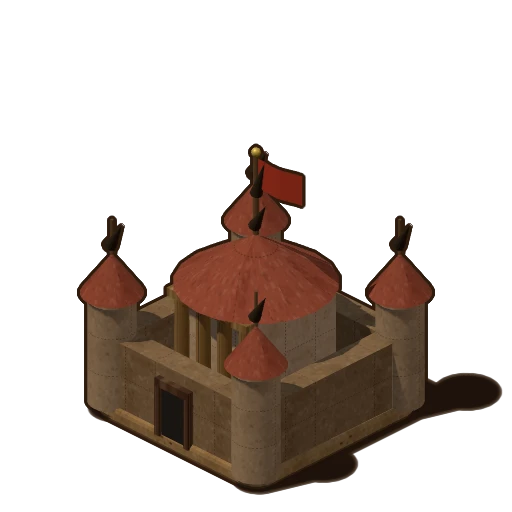
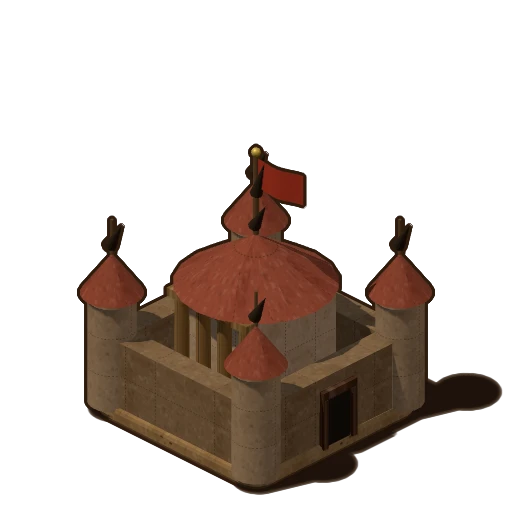
Ville au sud-est : route dégagée sur toute sa courbe, retours de la vérification
Relecture indépendante (code, captures, dépôt) du passage de la porte au sud-est :
- le décor extérieur évite toute la courbe de la route (distance à la Bézier) au lieu d un couloir
  droit ; un arbre ou un palmier se trouvait sur la route dans toutes les captures ;
- le « + » d un champ vide est dessiné avec sa parcelle, dans l ordre de profondeur : il ne passe
  plus par-dessus la tourelle de la porte ;
- l ombre du sol vue par l ouverture de la porte prend la couleur du biome (plus de liseré vert
  dans le désert et la neige) ;
- carte du monde : la ville fortifiée a sa porte sur la face sud-est (7 sprites 3D re-rendus) ;
- fiche de la porte peinte : référence au tronçon seg_z de la face sud-est ;
- captures de boutique de la ville et des champs régénérées.

Claude-Session: https://claude.ai/code/session_016sqwKg526Dtdz16gGNqRWF

Changed region(s): [[0.625, 0.75, 0.7812, 0.9062], [0.2812, 0.7188, 0.375, 0.875], [0.5625, 0.3438, 0.625, 0.4062]]

diff --git a/frontend/js/app/04b-iso-scene.js b/frontend/js/app/04b-iso-scene.js
@@ -209,7 +209,9 @@ function drawIsoGround(ctx, cx, cy, W, biome, night) {
   const hw = R_WALL * W * ISO_SP, hh = hw / 2;
   ctx.save();
   ctx.shadowColor = night ? 'rgba(0,0,0,0.6)' : 'rgba(20,12,4,0.35)'; ctx.shadowBlur = W * 0.4; ctx.shadowOffsetY = W * 0.08;
-  ctx.fillStyle = night ? '#1e2a1a' : '#5f8f36';
+  // ombre portée du sol de l'enceinte, teintée par le biome (visible seulement par l'ouverture de la porte)
+  const groundShadow = { forest: ['#5f8f36', '#1e2a1a'], desert: ['#b39a62', '#2a2418'], snow: ['#c3ccd4', '#262c34'] }[biome] || ['#5f8f36', '#1e2a1a'];
+  ctx.fillStyle = night ? groundShadow[1] : groundShadow[0];
   isoDiamondPath(ctx, cx, cy + W * 0.06, hw, hh); ctx.fill();
   ctx.restore();
   isoDiamondPath(ctx, cx, cy, hw, hh);
@@ -389,10 +391,22 @@ function isoMapFeatureAt(gx, gy) {
   if (!dx && !dy) return null;
   return Terrain.getTerrainType(currentCity.x + dx, currentCity.y + dy).feature;
 }
+// Distance (px écran) d'un point à la route de terre : la courbe de Bézier de drawIsoRoad, échantillonnée
+function isoRoadSampler(cx, cy, W) {
+  const { p0, p1, p2, p3 } = isoRoadPoints(cx, cy, W);
+  const s0 = { x: p0.x, y: p0.y - W * 0.3 };
+  const pts = [];
+  for (let i = 0; i <= 40; i++) {
+    const t = i / 40, u = 1 - t;
+    pts.push({ x: u * u * u * s0.x + 3 * u * u * t * p1.x + 3 * u * t * t * p2.x + t * t * t * p3.x, y: u * u * u * s0.y + 3 * u * u * t * p1.y + 3 * u * t * t * p2.y + t * t * t * p3.y });
+  }
+  return (x, y) => { let d = Infinity; for (let i = 1; i < pts.length; i++) { const a = pts[i - 1], b = pts[i]; const vx = b.x - a.x, vy = b.y - a.y, l2 = vx * vx + vy * vy || 1; const k = Math.max(0, Math.min(1, ((x - a.x) * vx + (y - a.y) * vy) / l2)); d = Math.min(d, Math.hypot(x - a.x - k * vx, y - a.y - k * vy)); } return d; };
+}
 function isoLandscape(view, W, cx, cy) {
   const props = biomeScene(cityBiome()).props;
   const out = [], water = [];
   const rMin = Math.ceil(R_WALL) + 1, rMax = rMin + 2;
+  const roadDist = isoRoadSampler(cx, cy, W);   // rien n'est posé sur la route, même là où elle s'écarte de l'axe de la porte
   for (let gx = -rMax; gx <= rMax; gx++) for (let gy = -rMax; gy <= rMax; gy++) {
     const r = Math.max(Math.abs(gx), Math.abs(gy));
     if (r < rMin || r > rMax) continue;
@@ -404,11 +418,14 @@ function isoLandscape(view, W, cx, cy) {
     const feature = isoMapFeatureAt(gx, gy);
     const jitter = (k) => (isoSeeded(seed + k) - 0.5) * 0.7;
     const p = isoPos(gx + jitter(1), gy + jitter(2), W, cx, cy);
+    const dRoad = roadDist(p.x, p.y);
     if (feature === 'water' || feature === 'frozen' || feature === 'oasis') {
+      if (dRoad < W * (0.9 + isoSeeded(seed + 5) * 0.5) + W * 0.25) continue;   // un plan d'eau ne recouvre pas la route
       water.push({ x: p.x, y: p.y, rx: W * (0.9 + isoSeeded(seed + 5) * 0.5), ry: W * (0.42 + isoSeeded(seed + 6) * 0.2), kind: feature, depth: gx + gy });
       if (feature === 'oasis' && roll < 0.5) out.push({ x: p.x + W * 0.35, y: p.y - W * 0.05, kind: 'palm', h: W * 0.85, depth: gx + gy + 0.1 });
       continue;
     }
+    if (dRoad < W * 0.55) continue;   // ni arbre ni rocher sur la route
     let kind = null, h = 0;
     if (feature === 'mountain' || feature === 'icemountain' || feature === 'rocks') {
       if (roll > 0.8) continue;

diff --git a/frontend/js/app/03-fields-render.js b/frontend/js/app/03-fields-render.js
@@ -38,6 +38,10 @@ function drawFieldSlot(slot, building, isHovered, isBuilding) {
     cityCtx.lineWidth = isHovered ? 3 : 2;
     cityCtx.setLineDash([5, 5]); cityCtx.stroke(); cityCtx.setLineDash([]);
     cityCtx.shadowBlur = 0;
+    // « + » dessiné avec la parcelle (ordre de profondeur) : une tour ou un mur devant le cache, comme pour les bâtiments
+    cityCtx.fillStyle = isHovered ? '#ffd700' : 'rgba(255,255,255,0.6)';
+    cityCtx.font = `bold ${size * 0.4}px Arial`; cityCtx.textAlign = 'center'; cityCtx.textBaseline = 'middle';
+    cityCtx.fillText('+', x, y);
   }
   // Couche d'overlay (dessinée après tous les sprites) : production, « + », badge de niveau, chantier
   const showBadges = typeof isoShowBadges !== 'function' || isoShowBadges(isHovered);
@@ -51,11 +55,6 @@ function drawFieldSlot(slot, building, isHovered, isBuilding) {
         cityCtx.drawImage(icon, x - s / 2, prodY - s / 2, s, s);
         cityCtx.globalAlpha = 1;
       }
-    }
-    if (level === 0) {
-      cityCtx.fillStyle = isHovered ? '#ffd700' : 'rgba(255,255,255,0.6)';
-      cityCtx.font = `bold ${size * 0.4}px Arial`; cityCtx.textAlign = 'center'; cityCtx.textBaseline = 'middle';
-      cityCtx.fillText('+', x, y);
     }
     if (level > 0 && showBadges) {   // badge de niveau (même style que les bâtiments)
       const spec = typeof isoBadgeSpec === 'function' ? isoBadgeSpec(x, y, size * 0.73, size * 0.37) : { x: x + size * 0.6, y: y + size * 0.08, radius: Math.max(8, Math.min(13, size * 0.26)) };

diff --git a/tools/render3d/53-map.js b/tools/render3d/53-map.js
@@ -24,7 +24,7 @@
     P.box(g, -1.0, -1.0, 2.0, 0.25, 0.7, wm, 0.08); P.box(g, -1.0, -1.0, 0.25, 2.0, 0.7, wm, 0.08); P.box(g, 0.75, -1.0, 0.25, 2.0, 0.7, wm, 0.08); P.box(g, -1.0, 0.75, 2.0, 0.25, 0.7, wm, 0.08);
     for (const [x, y] of [[-0.9, -0.9], [0.9, -0.9], [0.9, 0.9], [-0.9, 0.9]]) { P.cylinder(g, x, y, 0.22, 1.1, S.wall, 0.08); S.cone(g, x, y, 0.26, 0.4, 1.18); }
     P.box(g, -0.5, -0.5, 1.0, 1.0, 1.2, S.wallLight, 0.08); S.columns(g, -0.4, 0.52, 0.8, 1.2, 4, 0.08, { r: 0.07 }); S.hip(g, -0.5, -0.5, 1.0, 1.0, 0.5, 1.28);
-    S.flag(g, 0, 0, 1.78, 0.8); S.door(g, 0, 1.0, 0.3, 0.5, 0.08, { leaf: solid('#1a1410') });
+    S.flag(g, 0, 0, 1.78, 0.8); S.door(g, 0, 1.0, 0.3, 0.5, 0.08, { face: '+x', leaf: solid('#1a1410') });   // porte de l'enceinte sur la face avant droite (sud-est), comme dans la ville
     return { extent: 3 };
   };
   MP.defaultCity = (g) => { cityBase(g, 'grass'); const w = material('stone', '#c8b89a'), r = material('tiles', '#8a5a2a'); P.box(g, -0.8, 0.0, 0.7, 0.7, 0.6, w, 0.08); P.gable(g, -0.8, 0.0, 0.7, 0.7, 0.35, r, 0.68); P.box(g, 0.2, 0.2, 0.7, 0.6, 0.55, w, 0.08); P.gable(g, 0.2, 0.2, 0.7, 0.6, 0.3, r, 0.63); P.box(g, -0.3, -0.8, 0.9, 0.7, 0.85, material('stone', '#d8c8a8'), 0.08); P.hip(g, -0.3, -0.8, 0.9, 0.7, 0.4, r, 0.93); return { extent: 3 }; };

diff --git a/docs/ETAT-DES-SYSTEMES.md b/docs/ETAT-DES-SYSTEMES.md
@@ -64,7 +64,7 @@ soldats), jusqu'à × 1,3 au centre (niveau 3 ≈ 1 950 soldats). Une ville seco
 Refaite en octobre 2026 d'après les captures de Rise of Kingdoms fournies : **une seule scène** où tout tient dans l'enceinte.
 
 - Grille isométrique 2:1 : Bâtiment principal au centre (sprite 1,35 ×, plaza pavée autour), 19 emplacements de bâtiments sur deux anneaux, les 18 champs sur un troisième anneau le long des murs (bûcherons au fond à droite, carrières à droite, mines à gauche, fermes devant). Les numéros d'emplacement et l'API ne changent pas (champs = 101-118 côté serveur ; `citySlots` porte désormais ces numéros).
-- Enceinte carrée à tours d'angle (sprites par civilisation et par palier du Mur), murets bas sur les deux faces avant pour laisser voir la ville, porte sur l'arête sud-est dans l'axe de l'avenue, route de terre qui s'en éloigne vers le bas à droite (octobre 2026 : la porte est passée du sud-ouest au sud-est ; tout ce qui en dépend passe par un seul repère, `ISO_GATE_SIDE` dans `frontend/js/app/04b-iso-scene.js`). Une enceinte octogonale n'est pas possible avec la projection 2:1 et les sprites actuels (les pans coupés se projettent en lignes) ; la forme carrée est celle de la première capture.
+- Enceinte carrée à tours d'angle (sprites par civilisation et par palier du Mur), murets bas sur les deux faces avant pour laisser voir la ville, porte sur l'arête sud-est dans l'axe de l'avenue, route de terre qui s'en éloigne vers le bas à droite (octobre 2026 : la porte est passée du sud-ouest au sud-est ; tout ce qui en dépend passe par un seul repère, `ISO_GATE_SIDE` dans `frontend/js/app/04b-iso-scene.js` ; le décor extérieur évite toute la courbe de la route ; sur la carte, la ville fortifiée a aussi sa porte sur la face sud-est). Une enceinte octogonale n'est pas possible avec la projection 2:1 et les sprites actuels (les pans coupés se projettent en lignes) ; la forme carrée est celle de la première capture.
 - Sol de l'enceinte plus clair (herbe, sable ou neige selon le biome), avenues de terre (porte → plaza → fond, et une transversale) dans les couloirs entre les parcelles.
 - Décor dense : bosquets sur les cellules libres, rangée d'arbres au pied des murs du fond et de buissons devant, petits décors (buissons, fleurs, rochers, cactus, souches) dans les interstices ; paysage extérieur tiré de la carte (forêt, rochers, dunes, lacs, oasis, glace).
 - Toucher / clic sur un bâtiment, un champ ou un emplacement libre : **bulle d'action** au-dessus (nom, niveau, boutons ronds : Améliorer ou Construire, Recruter pour Caserne/Écurie/Atelier, Marché, Armées, Héros, Alliance, Rapports, Sac, Blessés selon le bâtiment, Infos = fiche). Le bâtiment reste surligné tant que la bulle est ouverte ; déplacement, zoom, toucher sur le terrain, Échap ou changement d'onglet la referment. L'infobulle de survol reste sur bureau.

diff --git a/docs/A-GENERER.md b/docs/A-GENERER.md
@@ -8,7 +8,7 @@ Généré par `node tools/liste-graphismes.cjs` ; s'actualise à chaque import (
 
 - **Style** : premier prompt de chaque image = la référence `tools/repaint/style-ref.png` et la phrase de style du guide § 0 ; fond transparent (sinon magenta #FF00FF) ; aucun texte.
 - **Animations** : **une seule image par animation**, bande horizontale de N cases égales côte à côte (N = nombre de phases), même personnage, même taille, même position dans chaque case, seule la pose change ; taille d'une case indiquée dans la ligne (512×768 pour les décors et personnages de ville, 512×512 pour les unités de carte et les effets) ; nommer la bande du nom de base sans numéro de phase (`props/villager_a.png` ou `props/villager_a_strip.png` pour `villager_a_0..5`), je découpe.
-- **Portes `walls/<CIV>/gate.png`** : une seule porte par civilisation, valable pour tous les niveaux du Mur ; style du palier 2 de l'enceinte (`walls/<CIV>/2_tower`, `2_seg_x`) ; même cadrage que les tours (losange au sol 2:1 à 51 % de la largeur, centre à 73 % de la hauteur), porte vue de face droite (arête sud-est), ouverture vers le bas-droit, battants ouverts, deux tourelles, torches ; 1024×1024.
+- **Portes `walls/<CIV>/gate.png`** : une seule porte par civilisation, valable pour tous les niveaux du Mur ; style du palier 2 de l'enceinte (`walls/<CIV>/2_tower`, `2_seg_z`, la face sud-est où la porte s'insère) ; même cadrage que les tours (losange au sol 2:1 à 51 % de la largeur, centre à 73 % de la hauteur), porte vue de face droite (arête sud-est), ouverture vers le bas-droit, battants ouverts, deux tourelles, torches ; 1024×1024.
 - **Bannière Google Play `store/feature-graphic.png`** (1024×500, opaque) : ville fortifiée des six civilisations sur un plateau vert à l'heure dorée, un héros romain au casque à crête rouge au premier plan à gauche, bannières et soldats en marche, palette chaude ; le tiers droit reste calme pour le titre, que j'ajoute ensuite (aucun texte dans l'image).
 - **Chantiers** (`<CLÉ>_site`) : même emprise et même silhouette que le bâtiment fini (le kit fournit son rendu comme guide), à moitié construit, techniques de la civilisation (guide § S10).
 
